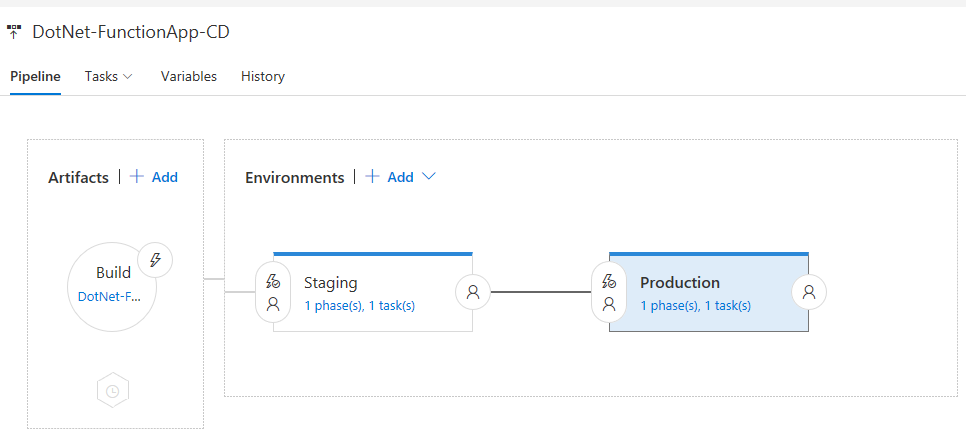
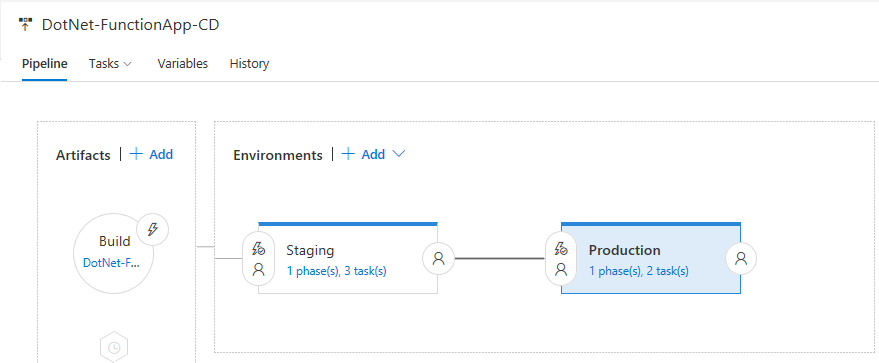
Complete CD pipeline with slot integration.

diff --git a/docs/DotNet-FunctionApp-CD.md b/docs/DotNet-FunctionApp-CD.md
@@ -36,9 +36,9 @@ TODO
   - Location = $(Location)
   - Template location = Linked artifact
   - Template = $(System.DefaultWorkingDirectory)/DotNet-FunctionApp-CI/infra/[deploy.json](../infra/templates/deploy.json)
-  - Override Template Parameters = -functionAppName $(ResourceGroupName) -storageName $(ResourceGroupName)
+  - Override Template Parameters = -functionAppName $(ResourceGroupName)
   - Deployment Mode = Incremental
-- Ensure Production Function App exists
+- Provision Staging
   - Type = Azure Resource Group Deployment
   - Version = 2.*
   - Azure Subscription = set appropriate
@@ -46,10 +46,10 @@ TODO
   - Resource Group = $(ResourceGroupName)
   - Location = $(Location)
   - Template location = Linked artifact
-  - Template = $(System.DefaultWorkingDirectory)/DotNet-FunctionApp-CI/infra/[deploy.json](../infra/templates/deploy.json)
-  - Override Template Parameters = -hostingPlanName $(ResourceGroupName) -webAppName $(ResourceGroupName) -storageName $(ResourceGroupName)
+  - Template = $(System.DefaultWorkingDirectory)/DotNet-FunctionApp-CI/infra/[deplo-slot.json](../infra/templates/deploy-slot.json)
+  - Override Template Parameters = -functionAppName $(ResourceGroupName) -slotName $(SlotName)
   - Deployment Mode = Incremental
-- Deploy Web App
+- Deploy Function App on Staging
   - Type = Deploy Staging
   - Version = 3.*
   - Azure Subscription = set appropriate
